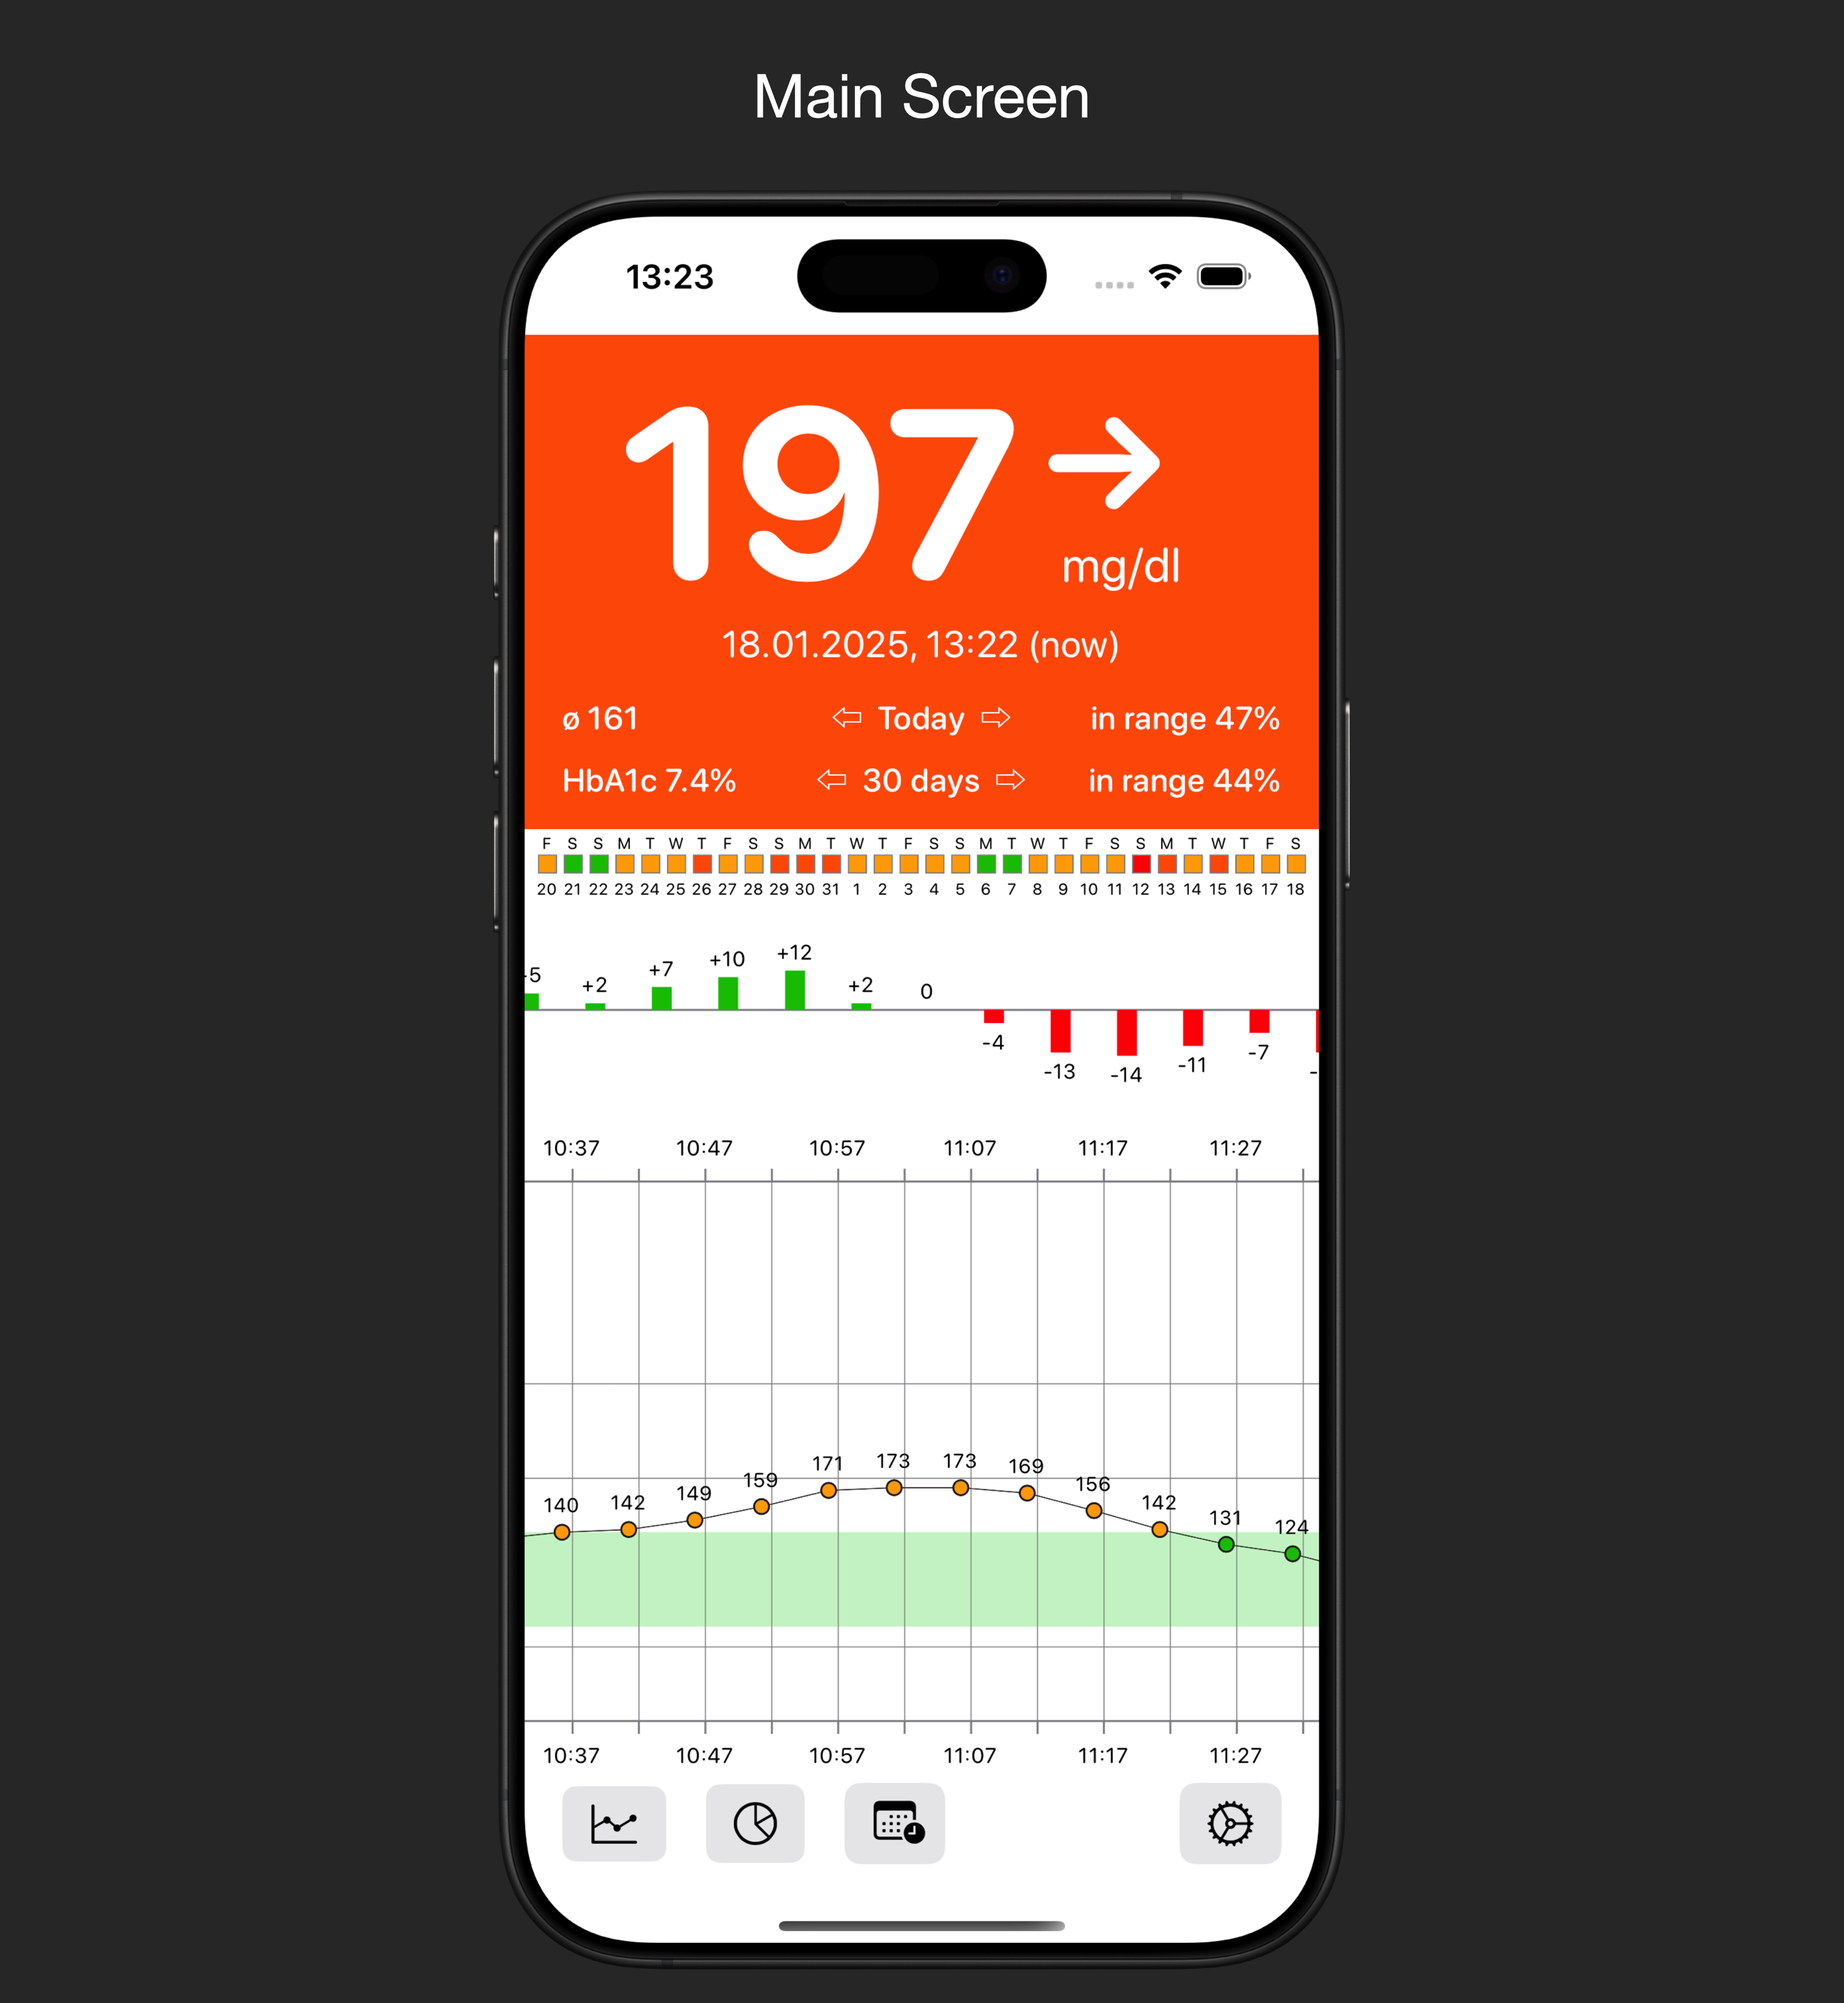
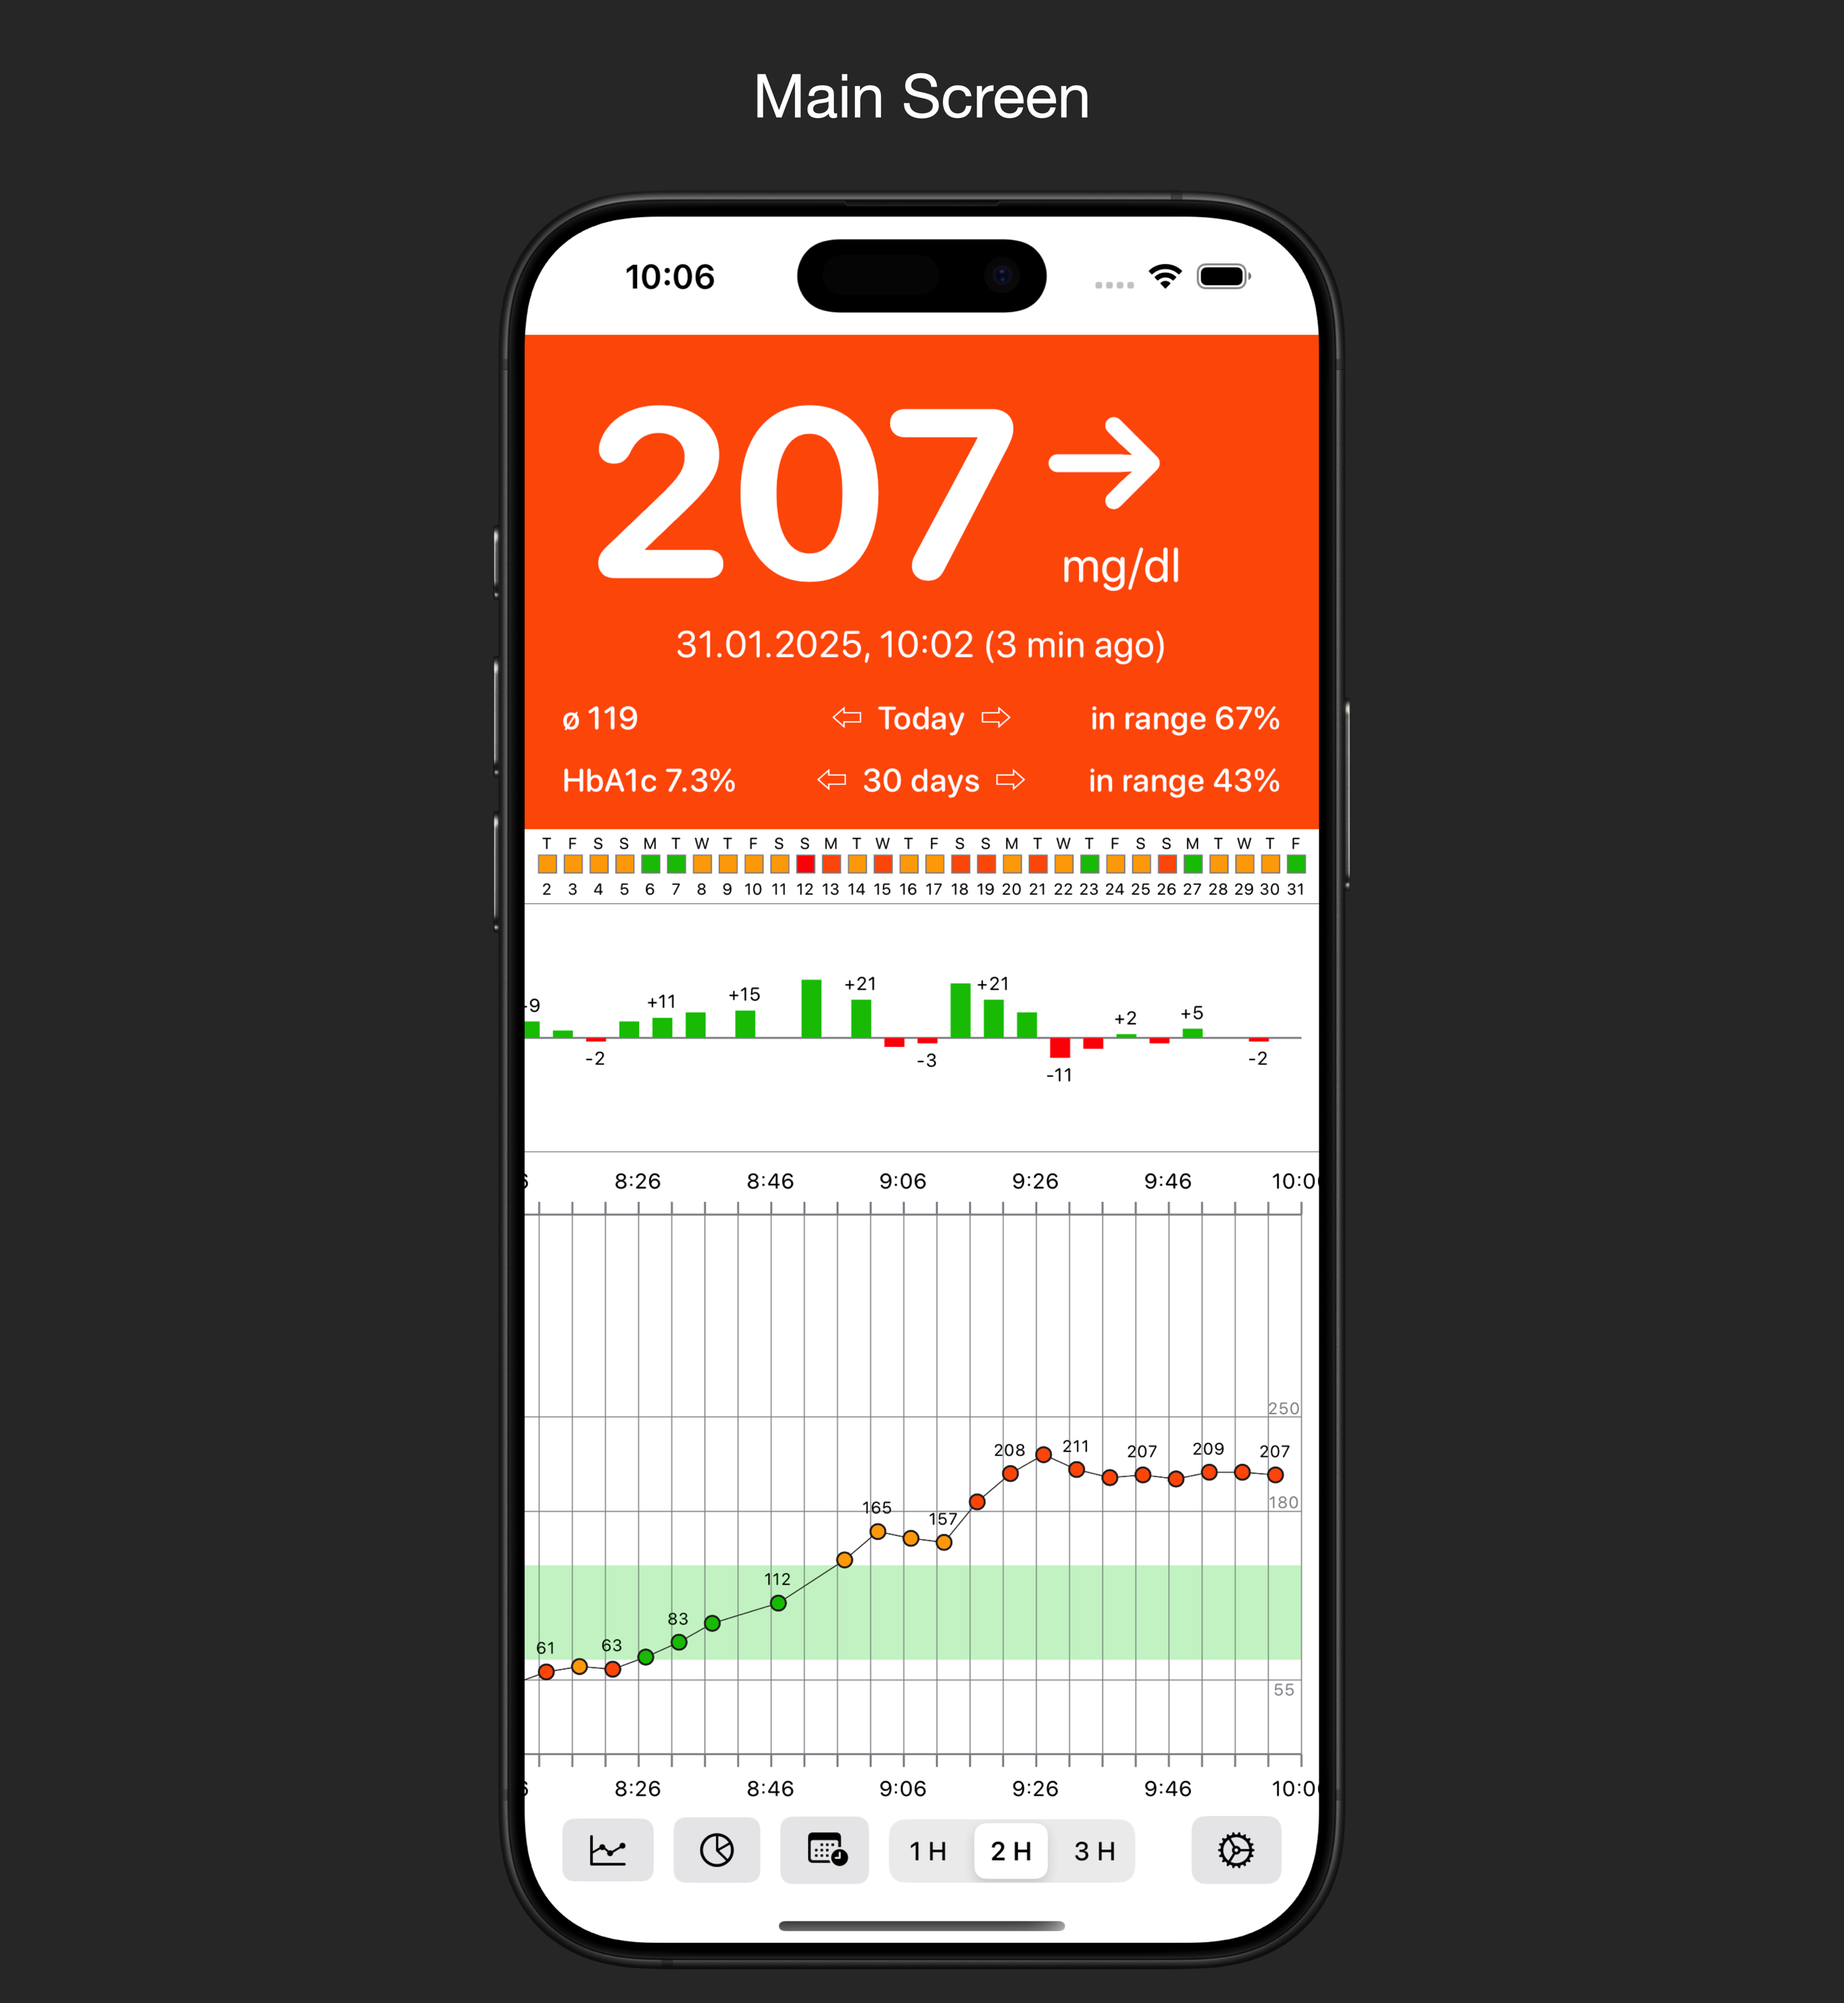
Updated screenshots and readme

diff --git a/README.md b/README.md
@@ -30,6 +30,8 @@ be send as so called "Critical Alert Notification". These notifications will eve
 "Do not disturb" mode or the phone is set to quite mode. This can be very useful over night, where you definitely
 want to receive a notification in case the blood glucose value is critical low. In this case the phone will play a
 special tone that is louder than normal and should wake you up when asleep.
+For the critical notification you could also define the volume that will be used for the notification, the default value is 0.5.
+If you would like to know what the critical alert sound sounds like, you can press the play button and it will play the sound.
 
 
 ### Main screen
@@ -66,7 +68,14 @@ a fill color defined by the value. You will also find the actual number above ea
 In the line chart you will also find a green area which indicates the "good range" of blood glucose values.
 The x-axis of the charts will show you the time. 
 
-Both charts can be scrolled horizontally and will contain the values of the last 24 hours
+Both charts can be scrolled horizontally and will contain the values of the last 24 hours.
+
+In the bottom of the screen you will find multiple buttons, the first button on the left will lead you to the
+selected interval screen where you can see the last 3/6/12 hours as a linechart or poincare plot.
+The second button will lead you to the statistics screen where you will further information about daily average
+values, CGM statistics etc.
+With the third control from the left you can define the number of hours the main screen will show you at once.
+And the fourth button with the gear icon will lead you to the settings screen.
 
 
 ### Selected interval screen
